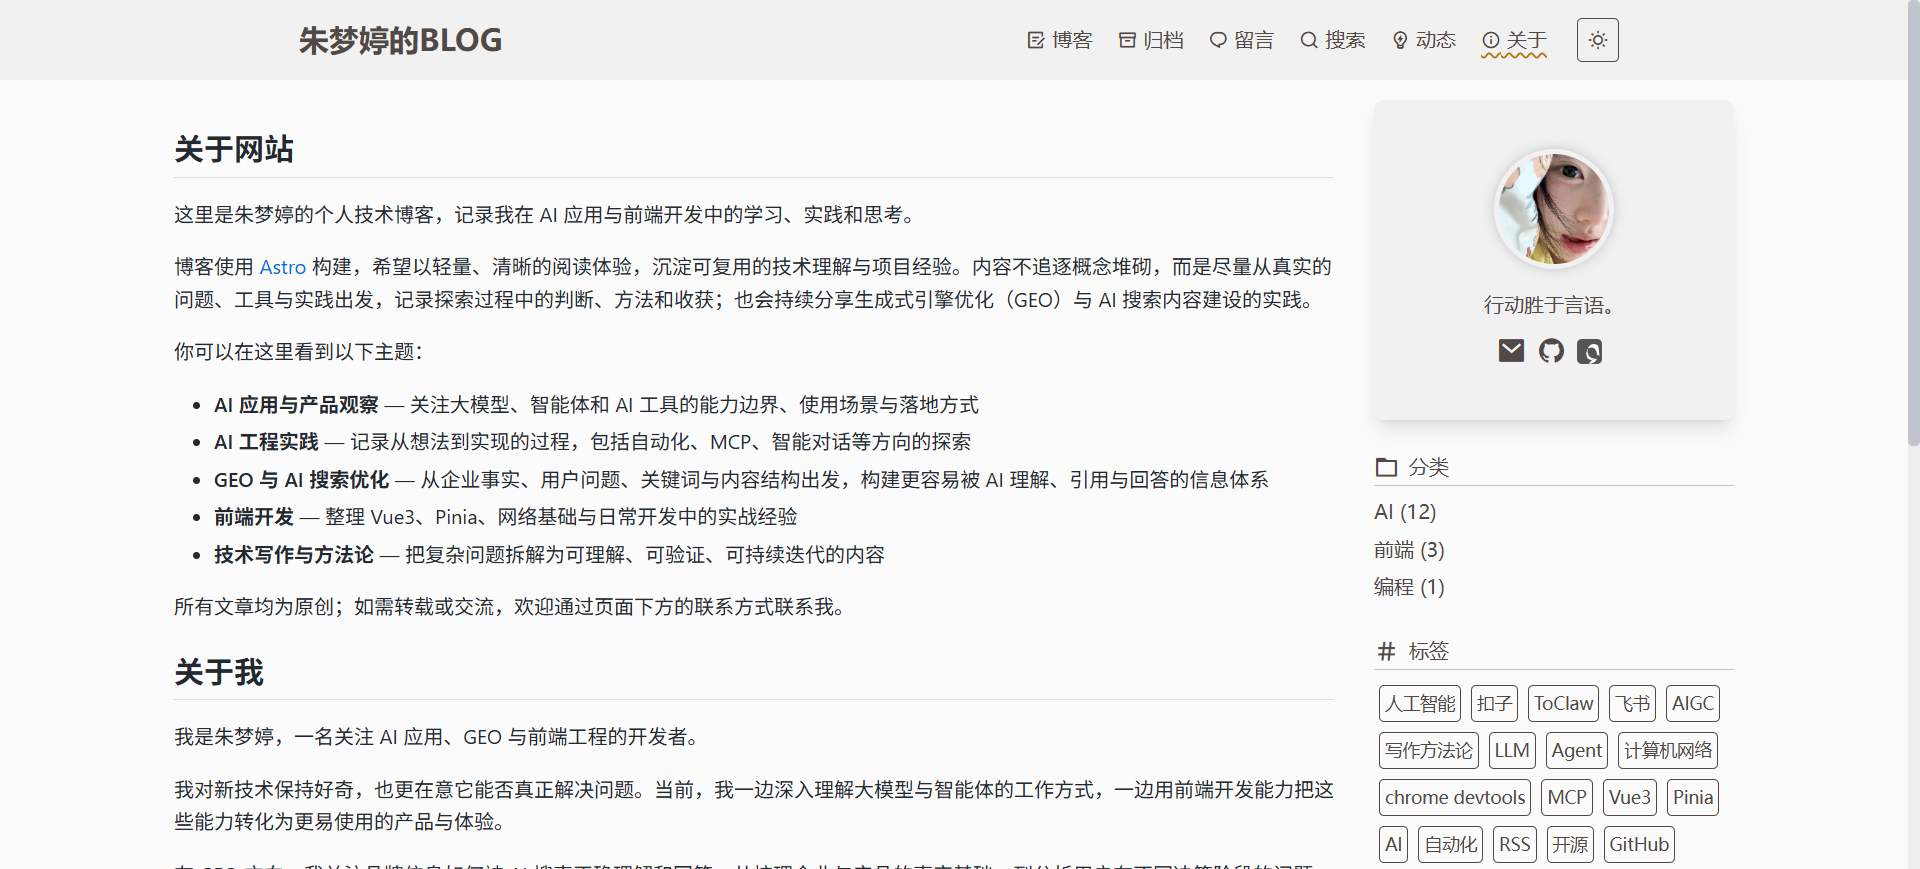
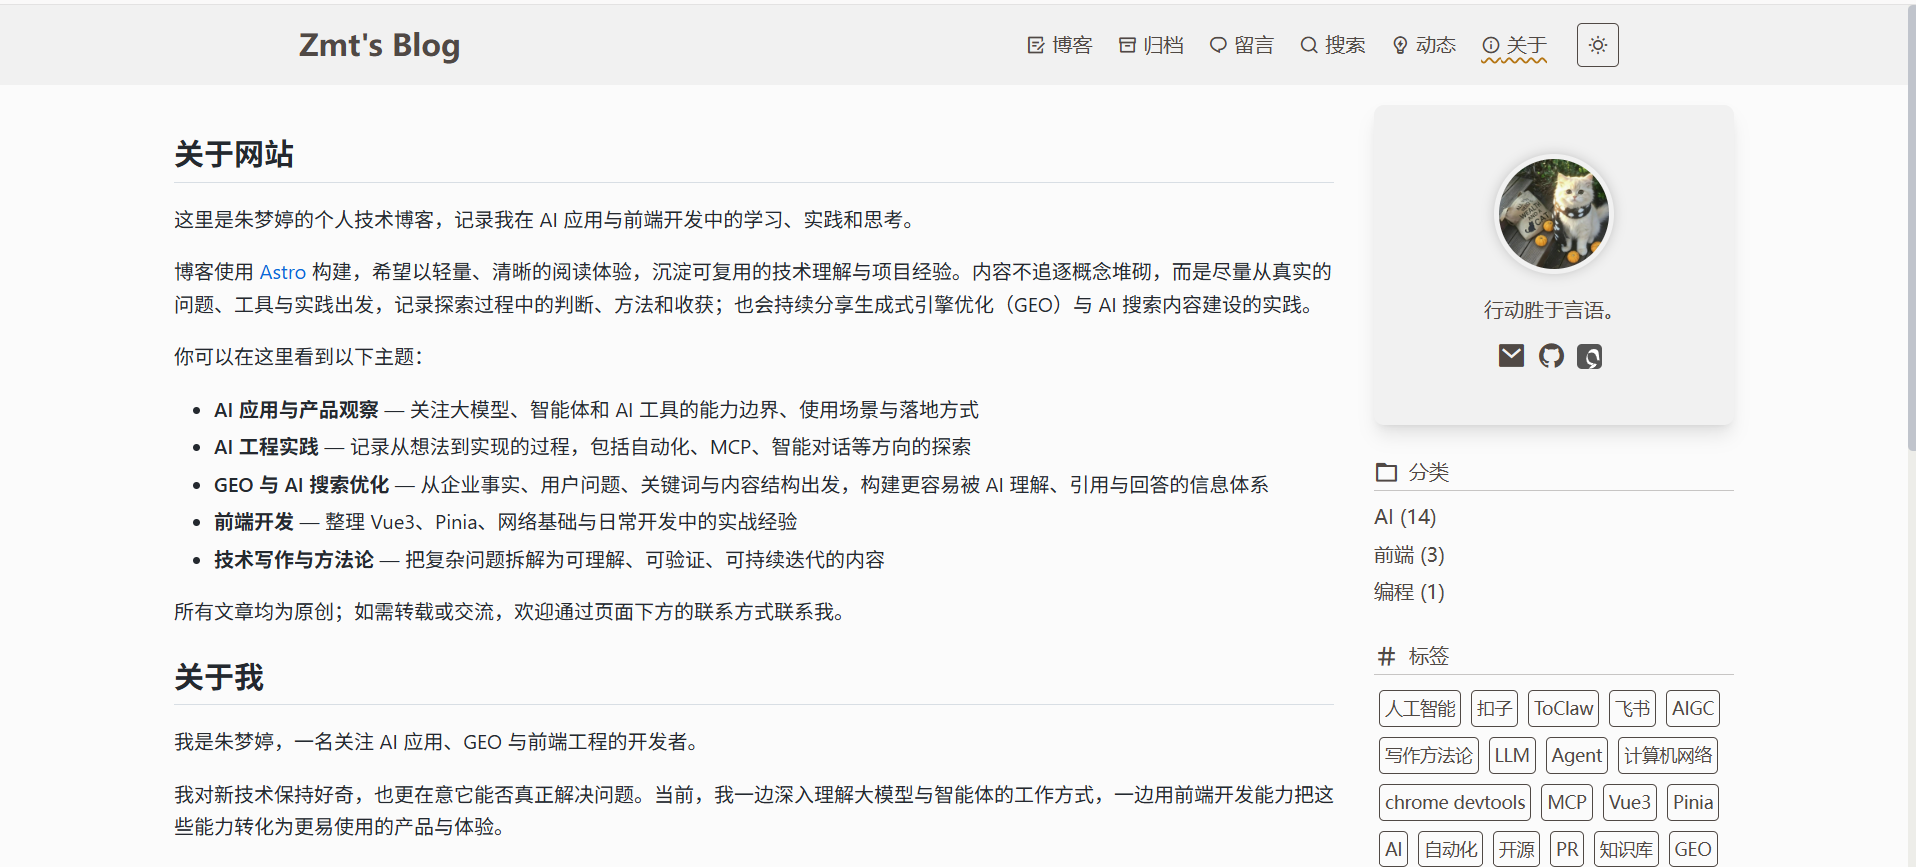
docs: refresh project README and preview

diff --git a/README.md b/README.md
@@ -1,24 +1,25 @@
 
-# 朱梦婷的 BLOG
+# Zmt's Blog
 
-一个基于 [Astro](https://astro.build/) 构建的个人博客，记录前端开发、AI 应用、GEO 与学习实践。
+一个基于 [Astro](https://astro.build/) 构建的个人技术博客，记录 AI 应用、GEO、前端开发与持续学习中的实践和思考。
 
-本项目以内容优先，提供轻量、响应式的阅读体验，并支持中文界面、深浅色主题、全文搜索和 RSS。
+项目以内容优先，提供轻量、清晰的中文阅读体验；文章内容涵盖大模型与智能体、AI 搜索内容建设、GEO 方法论，以及前端开发实践。
 
 ![博客页面预览](./public/images/blog-preview.png)
 
 ## 功能特性
 
-- Markdown 驱动的博客与动态内容
+- Markdown 驱动的博客、动态与 GEO 系列内容
 - 响应式布局，适配桌面与移动端
 - 深色 / 浅色主题切换
-- 标签、分类、归档与分页浏览
+- 标签、分类、按年份与月份归档，以及分页浏览
 - 全文搜索
 - RSS 与站点地图
-- 图片懒加载与预览
-- 代码高亮、代码折叠与行号
+- 图片懒加载、预览与本地头像资源
+- 文章目录高亮、阅读页装饰与代码高亮、折叠、行号
 - MathJax 数学公式支持
-- 可选评论与访问统计配置
+- 留言板与可选评论、访问统计配置
+- 定制站点图标与品牌视觉资源
 
 ## 技术栈
 
@@ -57,6 +58,7 @@ pnpm preview   # 预览生产构建
 | 发布动态 | `src/content/feed/` |
 | 修改站点名称、作者与导航 | `src/consts.ts` |
 | 修改关于页 | `src/pages/about/about.md` |
+| 修改头像与站点图片 | `public/`、`public/images/` |
 
 文章采用 Markdown 格式。新增文章后执行 `pnpm dev` 即可在本地预览。
 
